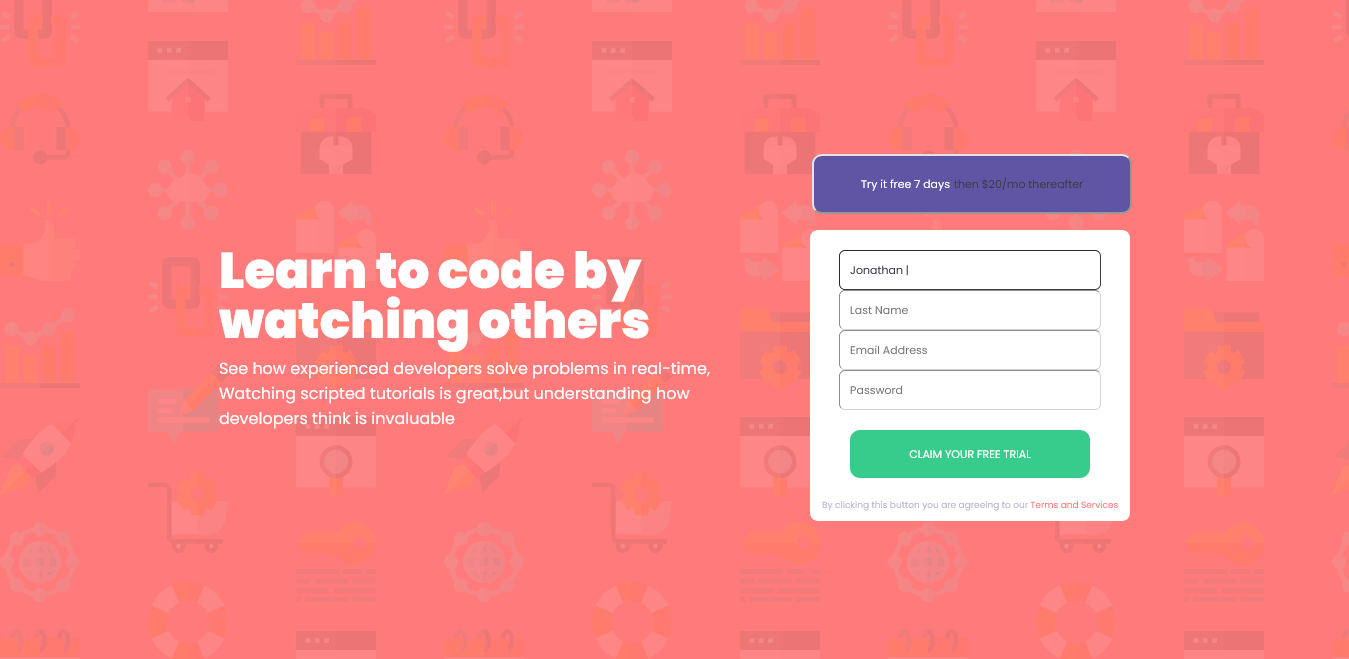
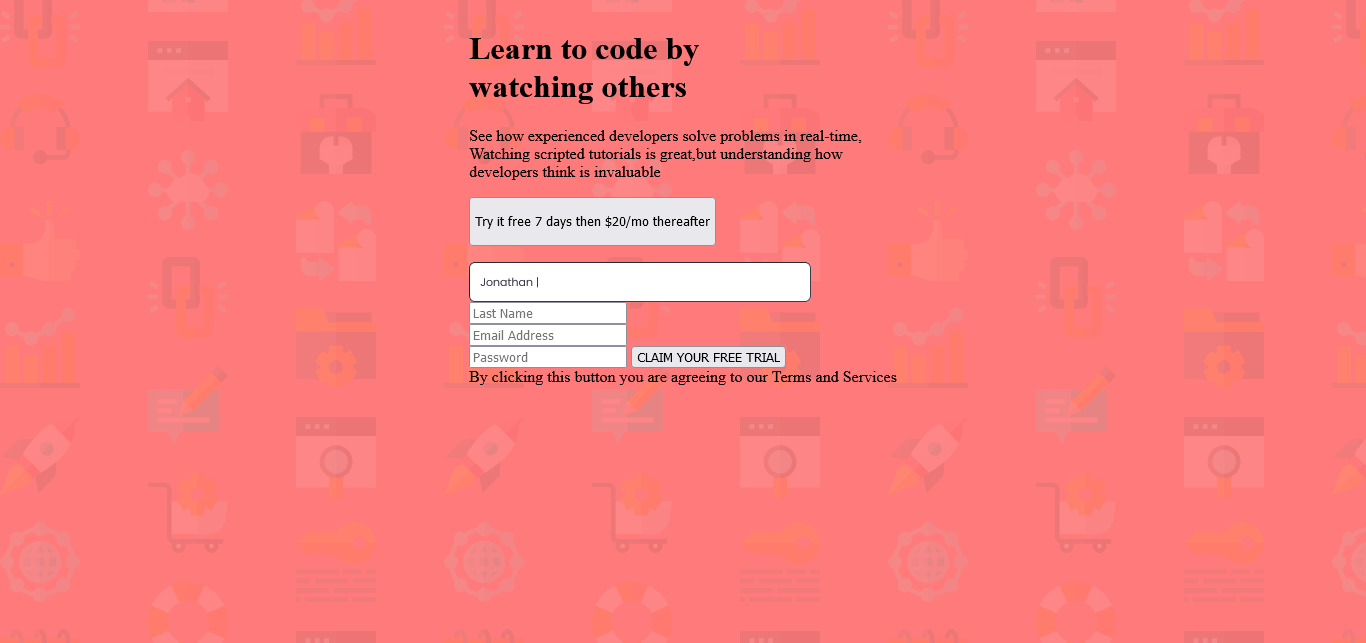
added screenshot

diff --git a/style.css b/style.css
@@ -1,3 +1,6 @@
+* {
+  box-sizing: border-box;
+}
 .body {
   background-color: hsl(0, 100%, 74%);
   display: flex;
@@ -6,13 +9,14 @@
   background-image: url(images/bg-intro-desktop.png);
   background-repeat: no-repeat;
 }
-.div5 {
+@media screen and (max-width: 600px) {.div5 {
   display: flex;
-  flex-direction: row;
+  flex-direction: column;
   align-items: center;
   justify-content: center;
   font-family: Poppins;
   height: 100vh;
+  padding: 10px;
 }
 .div1 {
   padding-left: 200px;
@@ -38,6 +42,12 @@
 }
 .div2 {
   padding-right: 200px;
+  padding-left: 200px;
+  display: flex;
+  flex-direction: column;
+  justify-content: center;
+  align-items: center;
+  height: 100vh;
 }
 .main {
   min-width: 40dvh;
